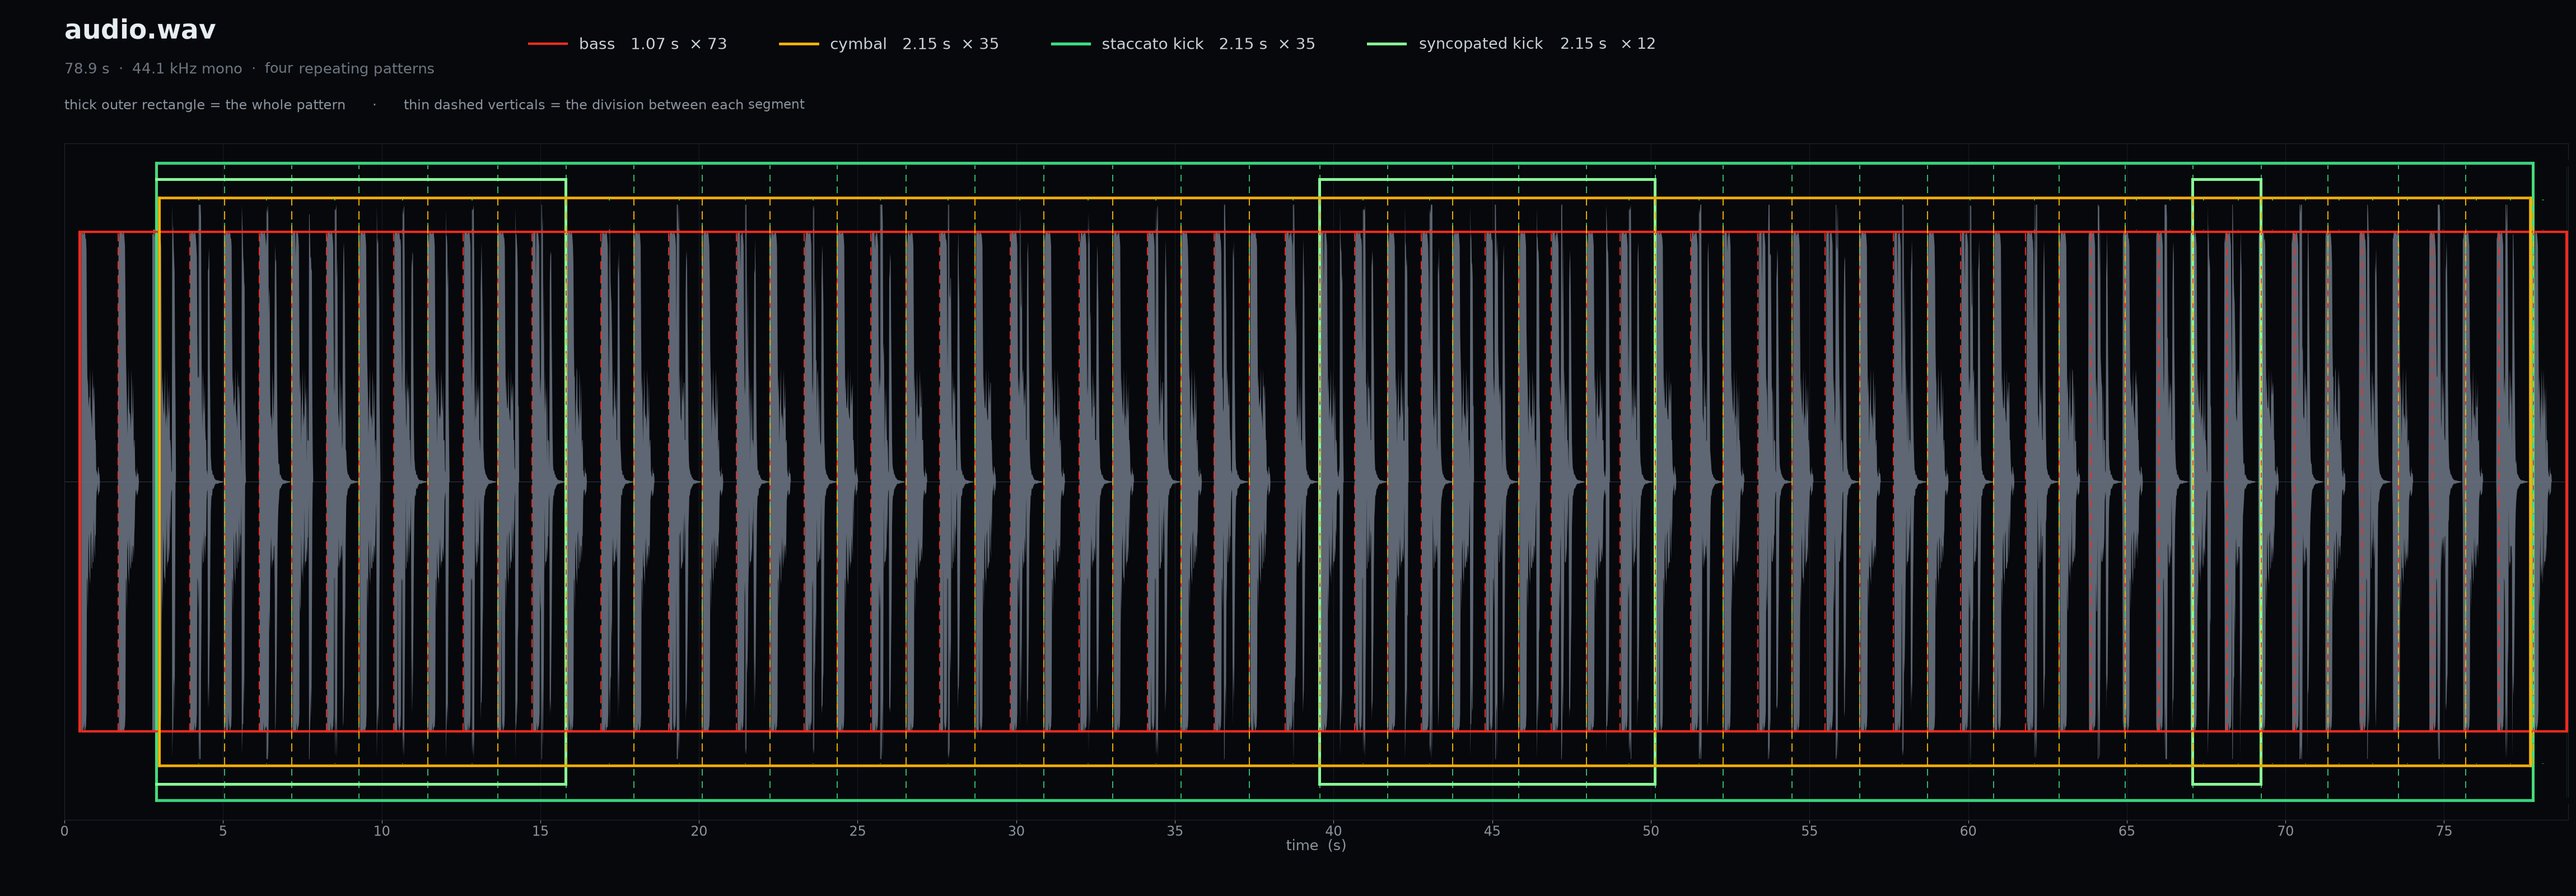
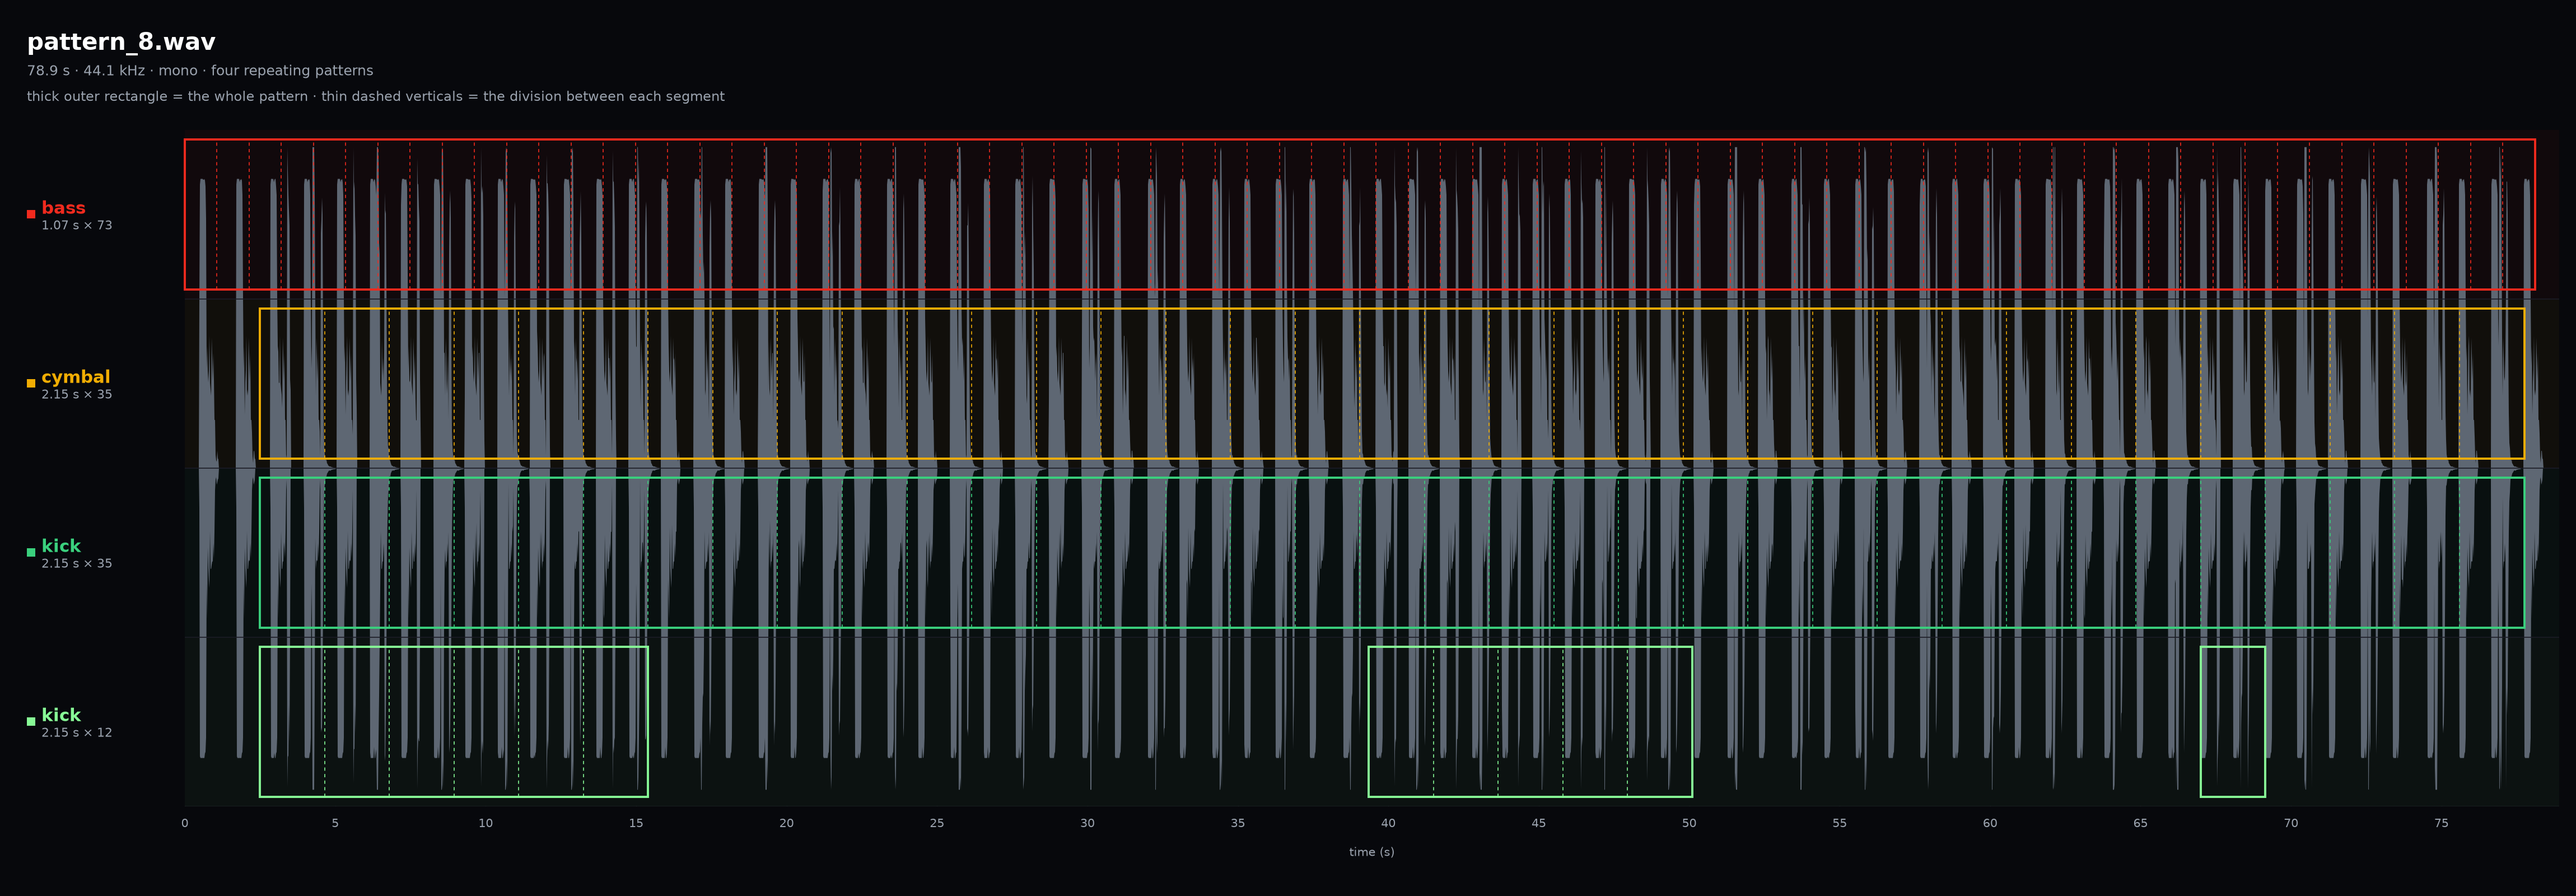
Give each pattern its own lane in the diagram
The four pattern frames were nested, so their edges and segment ticks fell
on the same pixels and a line could not be attributed to a pattern. Each
pattern now has a lane across one full-height waveform, both kick lanes are
labelled kick in their existing greens, and pattern_diagram.py draws the
figure so it is no longer edited by hand.

🤖 Generated with Codebuff

diff --git a/skills/analyze-palettes/pattern_diagram.py b/skills/analyze-palettes/pattern_diagram.py
@@ -1,0 +1,83 @@
+import os
+import numpy as np
+import scipy.io.wavfile as wavfile
+import matplotlib
+matplotlib.use('Agg')
+import matplotlib.pyplot as plt
+from matplotlib.patches import Rectangle
+
+HERE = os.path.dirname(os.path.abspath(__file__))
+SRC = os.path.join(HERE, 'pattern_8.wav')
+OUT = os.path.join(HERE, 'waveform_patterns.png')
+
+BG, WAVE, SEP, MUTED, AXIS = '#07080c', '#5e6773', '#1b1c26', '#9aa2ae', '#4a505c'
+W, H, DPI = 4600, 1600, 200
+PT = 72.0 / DPI
+LEFT, RIGHT, TOP, BOT = 330, 4570, 232, 1440
+RED, GOLD, GREEN, LIME = '#f12a1e', '#f1ad03', '#3ad07d', '#87fa96'
+
+# name, colour, segment length (s), [(pattern start, segment count), ...]
+PATTERNS = [
+    ('bass',   RED,   1.07, [(0.00, 73)]),
+    ('cymbal', GOLD,  2.15, [(2.50, 35)]),
+    ('kick',   GREEN, 2.15, [(2.50, 35)]),
+    ('kick',   LIME,  2.15, [(2.50, 6), (39.35, 5), (67.00, 1)]),
+]
+
+sr, data = wavfile.read(SRC)
+x = (data.astype(np.float64) / 32768.0) if data.dtype == np.int16 else data.astype(np.float64)
+dur = len(x) / sr
+ncols = RIGHT - LEFT
+edges = np.linspace(0, len(x), ncols + 1).astype(int)
+lo, hi = np.minimum.reduceat(x, edges[:-1]), np.maximum.reduceat(x, edges[:-1])
+centres = (edges[:-1] + edges[1:]) / (2 * sr)
+
+fig = plt.figure(figsize=(W / DPI, H / DPI), dpi=DPI, facecolor=BG)
+ax = fig.add_axes([LEFT / W, 1 - BOT / H, (RIGHT - LEFT) / W, (BOT - TOP) / H])
+ax.set_xlim(0, dur)
+ax.set_ylim(0, 4)
+ax.axis('off')
+
+for i, (_, colour, _, _) in enumerate(PATTERNS):
+    ax.axhspan(3 - i, 4 - i, color=colour, alpha=0.045, lw=0)
+for y in (1, 2, 3):
+    ax.axhline(y, color=SEP, lw=0.6)
+
+ax.fill_between(centres, 2 + lo * 1.9, 2 + hi * 1.9, color=WAVE, lw=0)
+
+inset = 0.055
+for i, (_, colour, seglen, groups) in enumerate(PATTERNS):
+    y0, y1 = 3 - i + inset, 4 - i - inset
+    for start, count in groups:
+        ax.add_patch(Rectangle((start, y0), count * seglen, y1 - y0, fill=False,
+                               edgecolor=colour, lw=1.4, joinstyle='miter', clip_on=False))
+        for k in range(1, count):
+            ax.plot([start + k * seglen] * 2, [y0, y1], color=colour, lw=0.7,
+                    ls=(0, (3, 3)), alpha=0.85, solid_capstyle='butt', clip_on=False)
+
+ax.plot([0, dur], [0, 0], color=AXIS, lw=0.5)
+for t in range(0, int(dur), 5):
+    ax.plot([t, t], [0, -0.035], color=AXIS, lw=0.5)
+    ax.text(t, -0.07, str(t), color=MUTED, fontsize=7.5, ha='center', va='top', clip_on=False)
+ax.text(dur / 2, -0.24, 'time (s)', color=MUTED, fontsize=7.5, ha='center', va='top', clip_on=False)
+
+lane_h = (BOT - TOP) / 4
+for i, (name, colour, seglen, groups) in enumerate(PATTERNS):
+    yc = 1 - (TOP + (i + 0.5) * lane_h) / H
+    fig.patches.append(Rectangle((48 / W, yc - 7 / H), 15 / W, 15 / H,
+                                 transform=fig.transFigure, facecolor=colour, lw=0))
+    fig.text(74 / W, yc + 0.006, name, color=colour, fontsize=11, fontweight='bold', va='center')
+    fig.text(74 / W, yc - 0.013, f'{seglen:.2f} s \u00d7 {sum(n for _, n in groups)}',
+             color=MUTED, fontsize=8, va='center')
+
+fig.text(48 / W, 1 - 78 / H, os.path.basename(SRC), color='#ffffff',
+         fontsize=15, fontweight='bold', va='center')
+fig.text(48 / W, 1 - 128 / H, f'{dur:.1f} s \u00b7 {sr / 1000:g} kHz \u00b7 mono \u00b7 four repeating patterns',
+         color=MUTED, fontsize=9, va='center')
+fig.text(48 / W, 1 - 174 / H,
+         'thick outer rectangle = the whole pattern \u00b7 '
+         'thin dashed verticals = the division between each segment',
+         color=MUTED, fontsize=8.5, va='center')
+
+fig.savefig(OUT, dpi=DPI, facecolor=BG)
+print('wrote', OUT)

diff --git a/skills/analyze-palettes/SKILL.md b/skills/analyze-palettes/SKILL.md
@@ -39,6 +39,9 @@ region, or a different length in each; both are normal, and neither is imposed
 by the tool. Uniform segment length is required only *within* a pattern, never
 across patterns or across the file. Measure each region on its own terms.
 
+`waveform_patterns.png` illustrates this vocabulary; `pattern_diagram.py` redraws
+it from `pattern_8.wav`.
+
 ## 0. Inputs and preparation
 
 1. Extract archives and list audio files. Preserve the originals.
